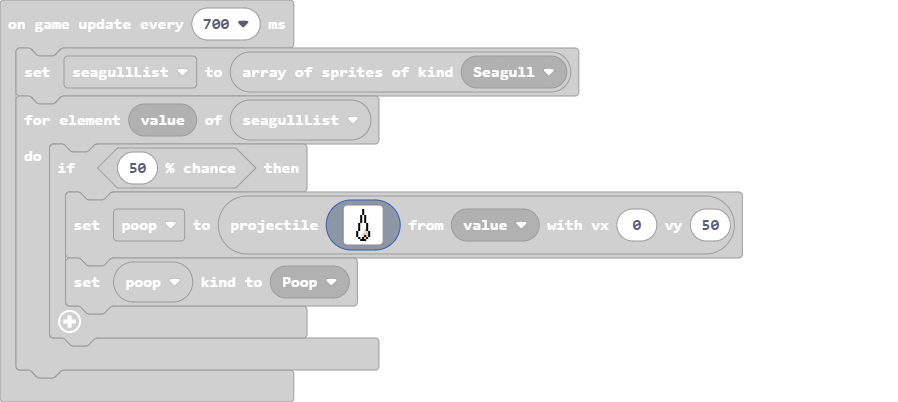
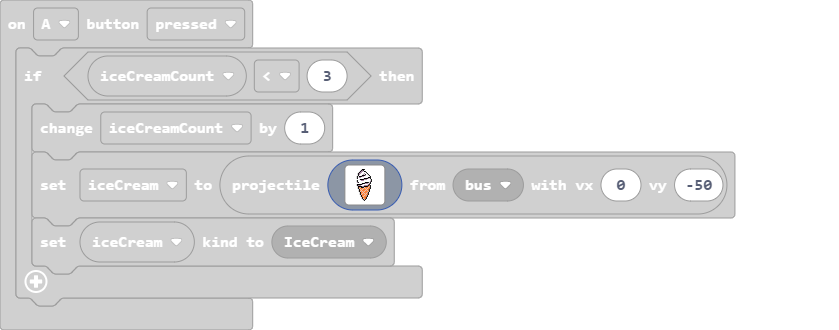
Update ice cream art.

Changed region(s): [[0.0, 0.0, 0.8987, 1.0]]

diff --git a/main.ts b/main.ts
@@ -80,22 +80,38 @@ controller.A.onEvent(ControllerButtonEvent.Pressed, function () {
     if (iceCreamCount < 3) {
         iceCreamCount += 1
         iceCream = sprites.createProjectileFromSprite(img`
-            . . . . . 3 3 b 3 3 d d 3 3 . . 
-            . . . . 3 1 1 d 3 d 1 1 1 1 3 . 
-            . . . 3 d 1 1 1 d 1 1 1 d 3 1 3 
-            . . 3 d d 1 1 1 d d 1 1 1 3 3 3 
-            . 3 1 1 d 1 1 1 1 d d 1 1 b . . 
-            . 3 1 1 1 d 1 1 1 1 1 d 1 1 3 . 
-            . b d 1 1 1 d 1 1 1 1 1 1 1 3 . 
-            . 4 b 1 1 1 1 d d 1 1 1 1 d 3 . 
-            . 4 4 d 1 1 1 1 1 1 d d d b b . 
-            . 4 d b d 1 1 1 1 1 1 1 1 3 . . 
-            4 d d 5 b d 1 1 1 1 1 1 1 3 . . 
-            4 5 d 5 5 b b d 1 1 1 1 d 3 . . 
-            4 5 5 d 5 5 d b b b d d 3 . . . 
-            4 5 5 5 d d d d 4 4 b 3 . . . . 
-            . 4 5 5 5 4 4 4 . . . . . . . . 
-            . . 4 4 4 . . . . . . . . . . . 
+            .....fff.......
+            ....fbf........
+            ...fbb1ff......
+            ..fbb1111f.....
+            .fbb111b11f....
+            .fb111b1f11f...
+            .f111fffb111f..
+            f1fffbb111111f.
+            f1bb1111111fff.
+            f111111ffffb1f.
+            111ffffbbb1111f
+            f111bbb1111111f
+            f111111111111bf
+            bf111111ffff1f.
+            11111fffbbb1bf.
+            fffffb11111bf..
+            fbbb111bbbbf4f.
+            .ffffbbffff4df.
+            .f4dfffd444d4f.
+            .fd444d4d4d44f.
+            ..fd4d444d44f..
+            ..f4d444d4d4f..
+            ..fd4d4d444df..
+            ...f44d444df...
+            ...f4d4d4d4f...
+            ...fd444d44f...
+            ....f44d4df....
+            ....f4d444f....
+            .....f444f.....
+            .....fd44f.....
+            ......fdf......
+            .......f.......
             `, bus, 0, -50)
         iceCream.setKind(SpriteKind.IceCream)
     }
